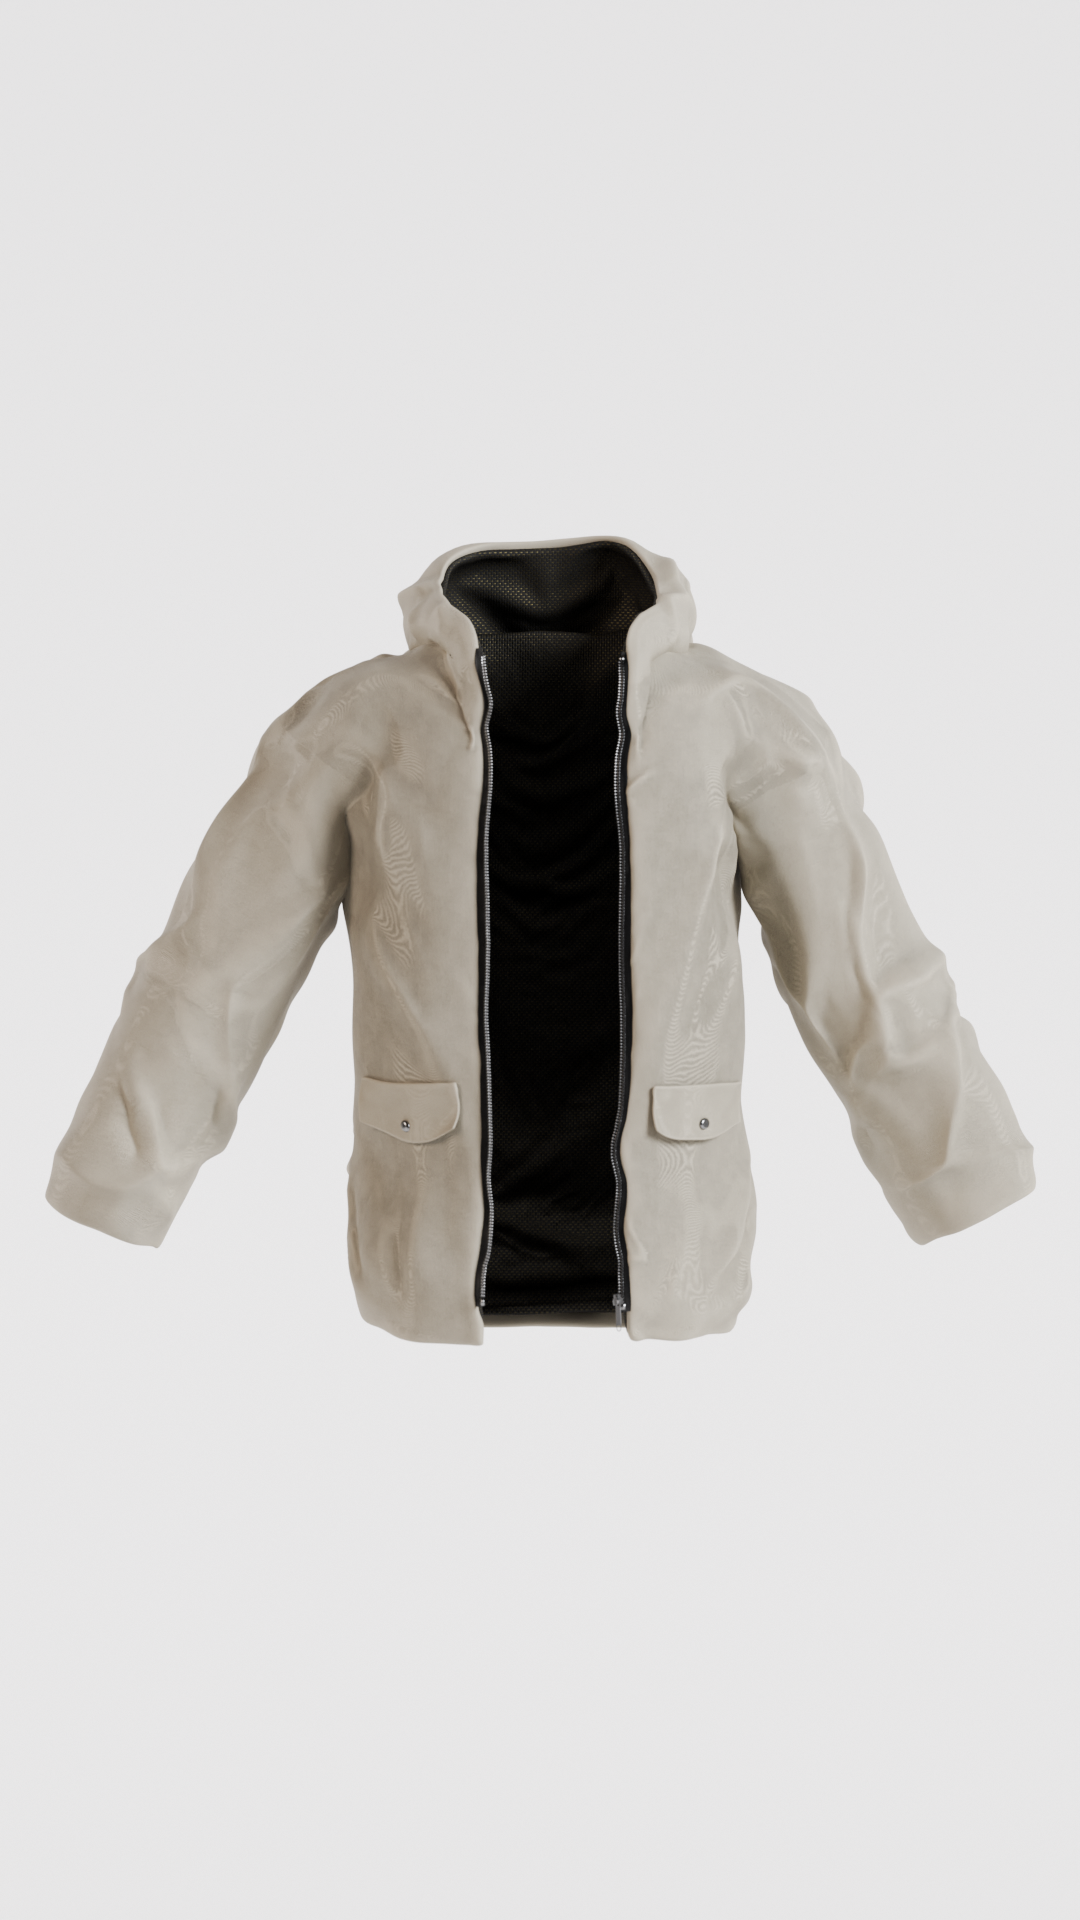
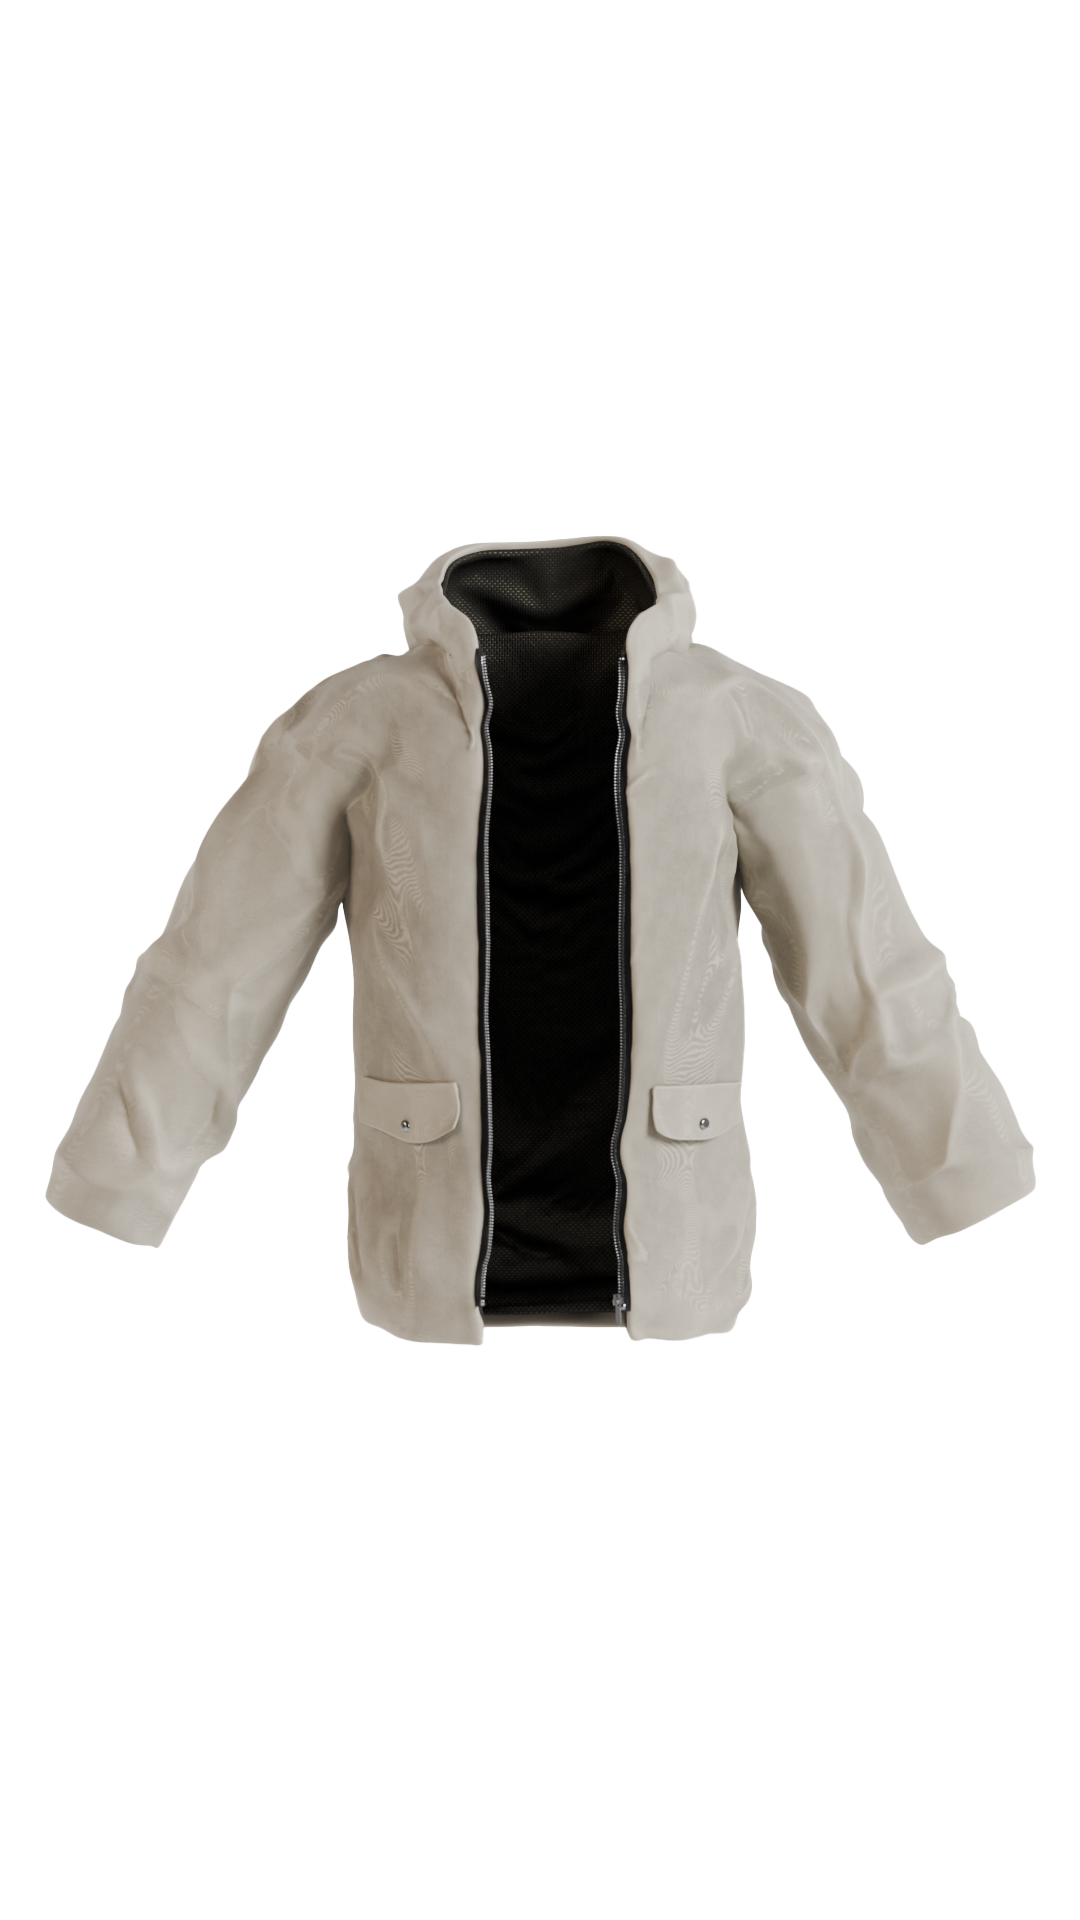
Products: updated frame size and product images

diff --git a/large-media.css b/large-media.css
@@ -342,6 +342,7 @@ main{
 }
 .product-img-container{
     border: 1px solid black;
+	height: 25.875rem;
     display: flex;
     justify-content: center;
 }

diff --git a/index.php b/index.php
@@ -51,8 +51,8 @@ require_once __DIR__ . '/header.php';
                 </div>
                 <div class="color-picker">
                     <div class="color-box stone" id="jacket-stone" data-img="products/1/Jacka_Beige/Jacka_Biege_Kritvit.png"></div>
-                    <div class="color-box sand" id="jacket-sand" data-img="products/1/Jacka_Beige/Jacka_Biege_Offwhite.png"></div>
-                    <div class="color-box moss" id="jacket-moss" data-img="products/1/Jacka_Brungrå/Jacka_Brungrå_Fram.png"></div>
+                    <div class="color-box sand" id="jacket-sand" data-img="products/1/Jacka_Beige/Jacka_Biege_Kritvit.png"></div>
+                    <div class="color-box moss" id="jacket-moss" data-img="products/1/Jacka_Brungrå/Jacka_Brun_Vitt.png"></div>
                 </div>
                 <div class="description">
                     <p class="prod-description">Lightweight, weatherproof shell engineered for freedom of movement.</p>
@@ -68,8 +68,8 @@ require_once __DIR__ . '/header.php';
                     <button class="toggle-btn">+</button>
                 </div>
                 <div class="color-picker">
-                    <div class="color-box sand" id="glasses-sand" data-img="products/2/Solglasögon_sand.png"></div>
-                    <div class="color-box moss" id="glasses-moss" data-img="products/2/Solglasögon_moss.png"></div>
+                    <div class="color-box sand" id="glasses-sand" data-img="products/2/Solglasögon_Sand_Vit_fram.png"></div>
+                    <div class="color-box moss" id="glasses-moss" data-img="products/2/Solglasögon_Moss_Vit_fram.png"></div>
                 </div>
                 <div class="description">
                     <p class="prod-description">Lightweight titanium eyewear with UV protection.</p>
@@ -85,8 +85,8 @@ require_once __DIR__ . '/header.php';
                     <button class="toggle-btn">+</button>
                 </div>
                 <div class="color-picker">
-                    <div class="color-box sand" id="bag-sand" data-img="products/3/Väska_sand.png"></div>
-                    <div class="color-box moss" id="bag-moss" data-img="products/3/Väska_moss.png"></div>
+                    <div class="color-box sand" id="bag-sand" data-img="products/3/Väska_Vit_sand.png"></div>
+                    <div class="color-box moss" id="bag-moss" data-img="products/3/Väska_Vit_moss.png"></div>
                 </div>
                 <div class="description">
                     <p class="prod-description">Constructed from recycled nylon with water resistant coating.</p>
@@ -102,8 +102,8 @@ require_once __DIR__ . '/header.php';
                     <button class="toggle-btn">+</button>
                 </div>
                 <div class="color-picker">
-                    <div class="color-box silver" id="ring-silver" data-img="products/4/Ring_Guld_Silver_2.png"></div>
-                    <div class="color-box guld" id="ring-guld" data-img="products/4/Ring_Silver_Guld_1.png"></div>
+                    <div class="color-box silver" id="ring-silver" data-img="products/4/Ring_Guld_Silver_Vit.png"></div>
+                    <div class="color-box guld" id="ring-guld" data-img="products/4/Ring_Silver_Guld_Vit.png"></div>
                 </div>
                 <div class="description">
                     <p class="prod-description">Crafted in stainless steel.</p>
